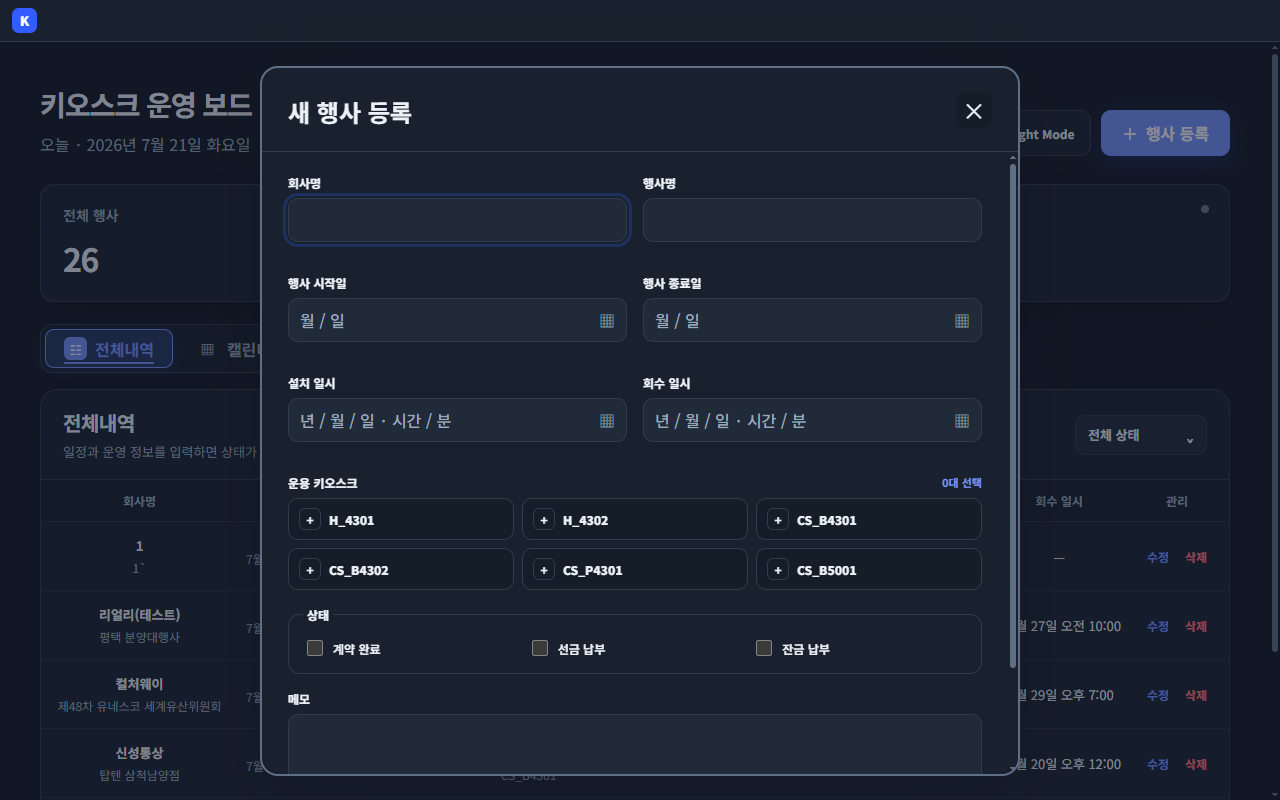
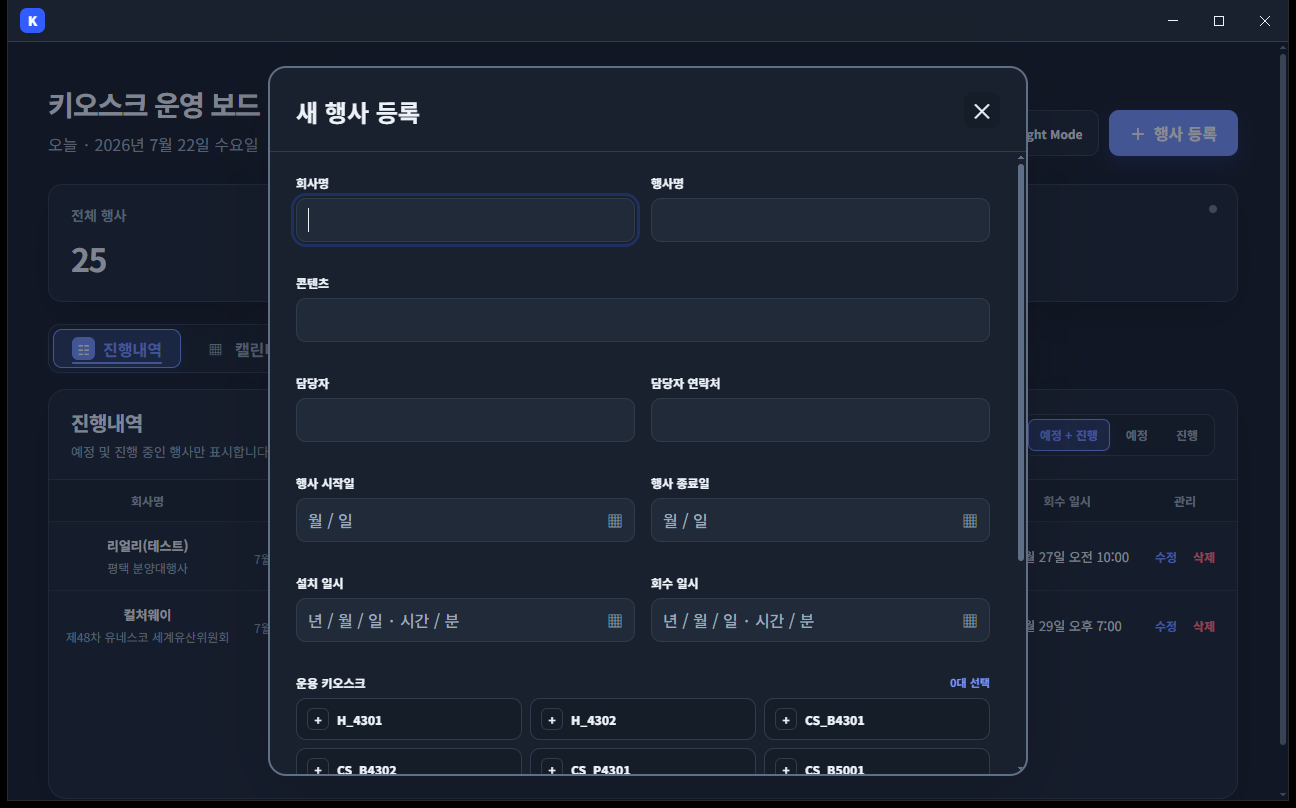
docs: refresh access link and screenshots

diff --git a/README.md b/README.md
@@ -1,30 +1,43 @@
 # KioskBoard
 
-키오스크 행사 일정, 장비 배정, 계약 및 납부 상태를 한 화면에서 관리하는 Electron 데스크톱 앱입니다.
+> **[KioskBoard 웹에서 바로 접속하기](https://kioskboard.vercel.app)**
+
+키오스크 행사 일정, 장비 배정, 계약 및 납부 상태를 한 화면에서 관리하는 Electron 데스크톱 및 웹 앱입니다.
 
 ## 주요 기능
 
 - 날짜에 따른 예정·진행·완료 상태 자동 계산
-- 전체내역, 월간 캘린더, 완료내역 제공
+- 진행내역, 월간 캘린더, 완료내역 제공
 - 설치·회수 시각을 반영한 캘린더 행사 막대
+- 토·일요일과 대한민국 공휴일을 표시하는 월간 캘린더
 - 운용 키오스크 등록 및 행사별 다중 배정
 - 다른 행사와 시간이 겹치는 키오스크 배정 방지
 - 계약, 선금, 잔금 완료 상태 즉시 변경
 - 캘린더 행사 클릭 시 상세 정보 확인
+- 콘텐츠, 담당자, 담당자 연락처 기록
 - 라이트·다크 모드와 Windows 네이티브 타이틀바 지원
 - 로컬 저장소 기반 행사 및 설정 보존
+- Supabase 기반 사내 사용자 실시간 공유
+- Electron과 HTTPS 웹에서 동일한 운영 보드 사용
+
+## 웹 버전
+
+- 운영 주소: [https://kioskboard.vercel.app](https://kioskboard.vercel.app)
+- Electron과 동일한 Supabase 계정으로 로그인합니다.
+- 웹에서는 실행 파일 옆 `Saved` 자동 백업 대신 서버 데이터와 브라우저 로컬 캐시를 사용합니다.
+- 설정의 JSON 복구는 브라우저 파일 선택 방식으로 동작합니다.
 
 ## 주요 화면
 
-### 전체 내역과 운영 상태
+### 진행내역과 운영 상태
 
-행사 일정에 따라 예정·진행·완료 상태를 자동 계산하고 계약, 선금, 잔금 상태를 한 화면에서 관리합니다.
+예정·진행 중인 행사를 모아 보고 계약, 선금, 잔금 상태를 한 화면에서 관리합니다.
 
-![전체 내역과 운영 상태](docs/screenshots/kioskboard-overview.png)
+![진행내역과 운영 상태](docs/screenshots/kioskboard-overview.png)
 
 ### 행사 등록과 키오스크 배정
 
-행사 기간과 설치·회수 일시를 입력하고, 해당 시간에 운용할 수 있는 키오스크를 선택해 배정합니다.
+행사 기간, 콘텐츠, 담당자, 설치·회수 일시를 입력하고 해당 시간에 운용할 수 있는 키오스크를 선택해 배정합니다.
 
 ![행사 등록과 키오스크 배정](docs/screenshots/kioskboard-event-editor.png)
 
@@ -36,7 +49,7 @@
 
 ### 월간 캘린더
 
-설치 시점부터 회수 시점까지 이어지는 행사 일정을 월간 캘린더에서 확인합니다.
+설치 시점부터 회수 시점까지 이어지는 행사 일정과 주말·공휴일을 월간 캘린더에서 확인합니다.
 
 ![월간 캘린더](docs/screenshots/kioskboard-calendar.png)
 
@@ -64,6 +77,15 @@
 npm install
 npm start
 ```
+
+웹 개발 및 빌드:
+
+```bash
+npm run dev:web
+npm run build:web
+```
+
+사내 공유 기능을 연결하려면 [Supabase 설정 안내](docs/SUPABASE_SETUP.md)를 먼저 진행합니다.
 
 ## 검증
 

diff --git a/AgentWorks/WorkDocs/cooperation/GithubReadmeRefresh/TODO_01_ReadmeScreenshots/Task.md b/AgentWorks/WorkDocs/cooperation/GithubReadmeRefresh/TODO_01_ReadmeScreenshots/Task.md
@@ -1,0 +1,24 @@
+# Task
+
+## Context
+- GitHub README 상단에 웹 접속 링크를 배치하고 기존 스크린샷을 최신 UI로 교체한다.
+
+## Current Understanding
+- README 스크린샷은 전체내역 표기와 이전 데이터를 보여줘 현재 진행내역, 공휴일, 추가 행사 필드를 반영하지 못한다.
+
+## Observed Issues
+- 런타임에서 확인된 현상이나 새로 발견된 문제를 적는다.
+
+## Decision Notes
+- 방향이 바뀐 이유와 폐기한 가설을 적는다.
+
+## Implementation Notes
+- README 제목 바로 아래에 `https://kioskboard.vercel.app` 접속 링크를 추가했다.
+- 주요 기능과 화면 설명에 진행내역, 콘텐츠·담당자, 주말·공휴일 표시를 반영했다.
+- 진행내역, 행사 등록, 키오스크 설정, 캘린더, 행사 상세, 완료내역, 라이트 모드 7개 이미지를 1296x808 최신 실행본으로 교체했다.
+
+## Result
+- 모든 이미지의 해상도와 민감 정보 미노출을 확인했다.
+
+## History Index
+- 아직 분리된 이력이 없다.

diff --git a/AgentWorks/WorkDocs/cooperation/GithubReadmeRefresh/README.md b/AgentWorks/WorkDocs/cooperation/GithubReadmeRefresh/README.md
@@ -1,0 +1,16 @@
+# GitHub README 링크 및 이미지 최신화
+
+## Summary
+- 작업 요약을 적는다.
+
+## Background
+- 다른 에이전트가 이어서 작업할 때 필요한 배경을 적는다.
+
+## Scope
+- 이번 작업의 범위를 적는다.
+
+## References
+- 관련 파일, 문서, 이슈, planning 문서를 연결한다.
+
+## Current Status
+- 최신 상위 상태를 적는다.

diff --git a/AgentWorks/WorkDocs/cooperation/GithubReadmeRefresh/TODO_01_ReadmeScreenshots/review/README.md b/AgentWorks/WorkDocs/cooperation/GithubReadmeRefresh/TODO_01_ReadmeScreenshots/review/README.md
@@ -1,0 +1,15 @@
+# Review Status
+
+Todo: TODO_01_ReadmeScreenshots
+CurrentRound: R00
+Status: not_started
+ReadyToCommit: no
+OpenReviewActions: 0
+
+LatestSummary:
+- 아직 리뷰를 실행하지 않았다.
+
+LastCommit:
+- Branch: -
+- Hash: -
+- Subject: -

diff --git a/AgentWorks/WorkDocs/cooperation/GithubReadmeRefresh/TODO_01_ReadmeScreenshots/Checklist.md b/AgentWorks/WorkDocs/cooperation/GithubReadmeRefresh/TODO_01_ReadmeScreenshots/Checklist.md
@@ -1,0 +1,10 @@
+# Checklist
+
+## Main
+- [x] 작업 범위를 정리한다.
+- [x] 관련 코드와 문서를 확인한다.
+- [x] 수정 또는 구현을 반영한다.
+- [x] 결과를 검증한다.
+
+## Review Follow-ups
+- [x] 없음

diff --git a/AgentWorks/WorkDocs/cooperation/GithubReadmeRefresh/Meta.md b/AgentWorks/WorkDocs/cooperation/GithubReadmeRefresh/Meta.md
@@ -1,0 +1,6 @@
+# Meta
+
+Title: GitHub README 링크 및 이미지 최신화
+Type: cooperation
+Tags: kiosk_operations
+Status: completed

diff --git a/AgentWorks/WorkDocs/cooperation/GithubReadmeRefresh/TODO.md b/AgentWorks/WorkDocs/cooperation/GithubReadmeRefresh/TODO.md
@@ -1,0 +1,6 @@
+# TODO
+
+- [x] TODO_01_ReadmeScreenshots
+
+Current Focus:
+- 없음
